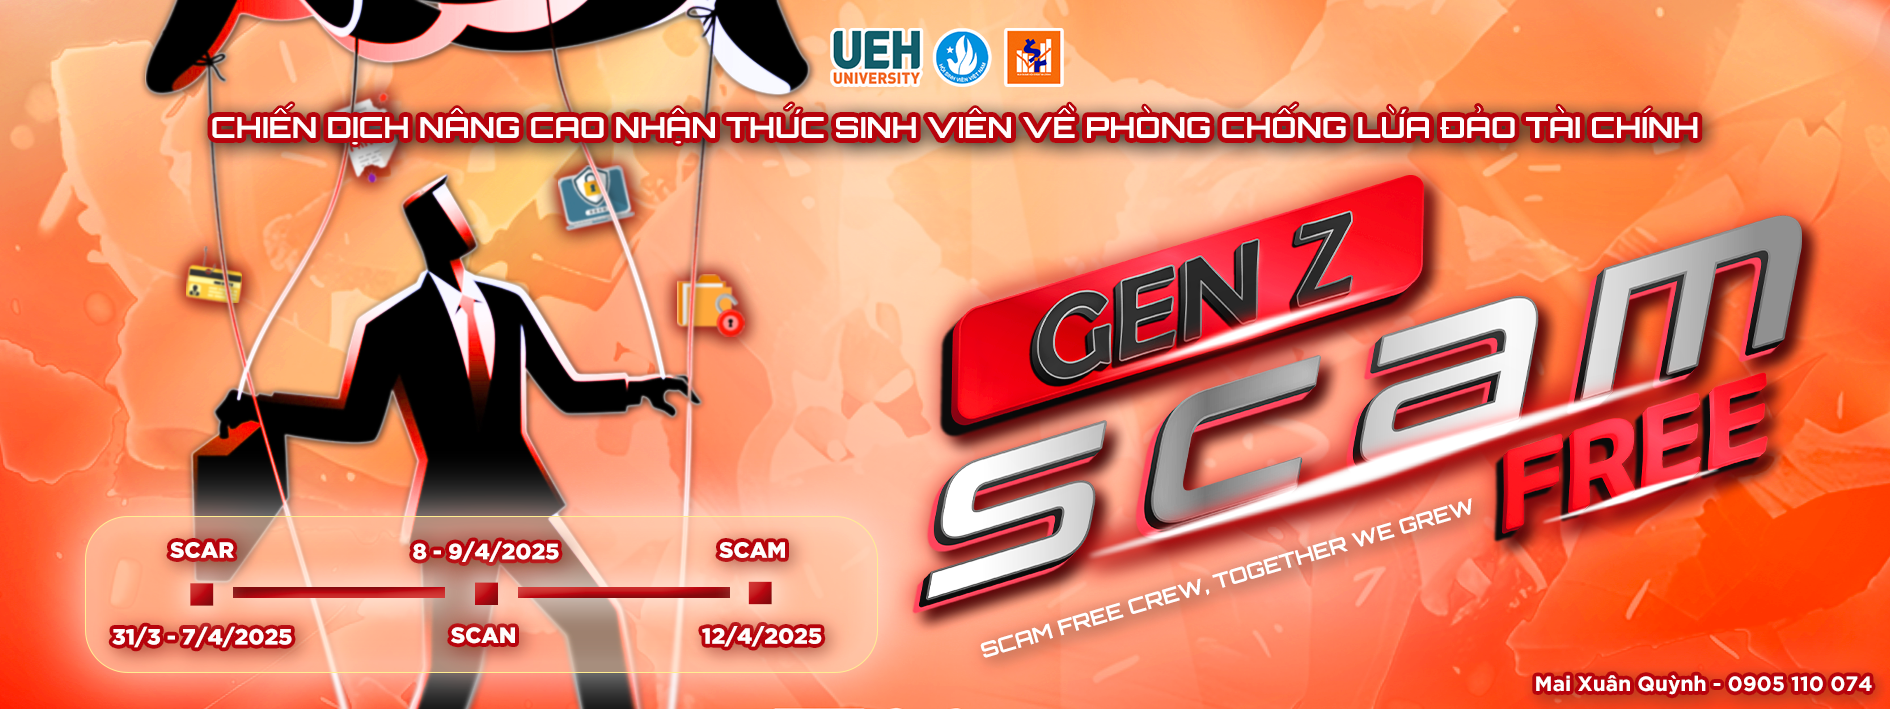
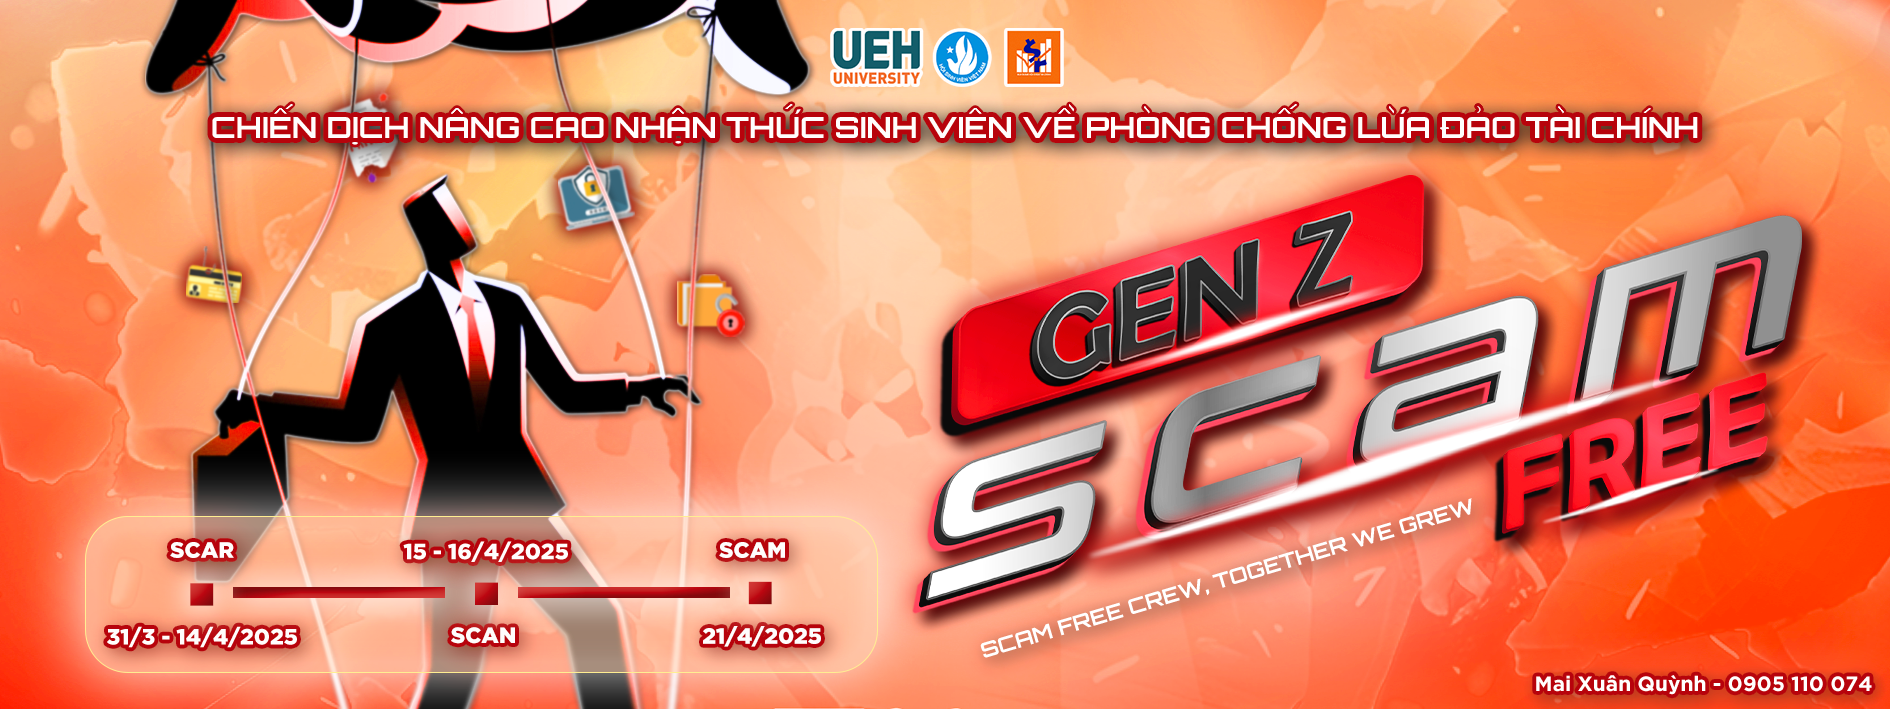
[EDIT] Modify overview element

diff --git a/src/view/Home/Home.scss b/src/view/Home/Home.scss
@@ -79,6 +79,98 @@
             img.title {
                 margin: 0 auto;
                 width: min(800px, 90%);
+                margin-bottom: 15px;
+            }
+
+            .content {
+                width: min(1000px, 90%);
+                margin: 0 auto;
+                display: grid;
+                grid-template-columns: 47% 47%;
+                gap: 6%;
+                place-items: center;
+                padding-top: 20px;
+
+                .element {
+                    width: 400px;
+                    height: 200px;
+                    background-color: white;
+                    border-radius: 35px;
+                    padding: 0 20px;
+                    padding-top: 35px;
+                    padding-bottom: 20px;
+                    
+                    display: flex;
+                    flex-direction: column;
+                    align-items: center;
+                    justify-content: space-between;
+
+                    img {
+                        position: absolute;
+                        height: 40px;
+                        top: -20px;
+                        right: 50%;
+                        transform: translateX(50%);
+                        z-index: 5;
+                    }
+
+                    div {
+                        height: 70%;
+                        display: flex;
+                        align-items: center;
+                        justify-content: center;
+                    }
+
+                    p {
+                        font-size: 20px;
+                        text-align: center;
+                        color: var.$primary-color;
+                        font-weight: 500;
+                    }
+
+                    h3 {
+                        color: var.$primary-color;
+                    text-align: center;
+                    font-family: var.$side-font;
+                    font-size: 20px;
+                    line-height: 1.35;
+                    text-shadow:  
+                        /* Lớp trắng (bên trong, mỏng hơn) */
+                        0px 3px 0px white, 3px 1px 0px white, 1.5px -3px 0px white, -2.5px -2px 0px white,
+                        -2.5px 2px 0px white, 1.5px 2.5px 0px white, 3px -1px 0px white, -0.3px -3px 0px white,
+                        -3px -0.8px 0px white, -1.5px 2.5px 0px white, 2.5px 2px 0px white, 2px -2px 0px white,
+                        -2px -2.5px 0px white, -2.5px 1.5px 0px white, 0.8px 3px 0px white, 3px 0.3px 0px white,
+                        1px -3px 0px white, -2.5px -1.5px 0px white, -2px 2px 0px white, 2px 2.5px 0px white,
+                        3px -1.5px 0px white, -1px -3px 0px white, -3px -0.5px 0px white, -1px 3px 0px white,
+    
+                        /* Lớp đỏ ngoài cùng (dày hơn lớp trắng khoảng 2px) */
+                        0px 5px 0px var.$primary-color, 5px 2px 0px var.$primary-color, 3.5px -5px 0px var.$primary-color, -4.5px -3.5px 0px var.$primary-color,
+                        -4.5px 3.5px 0px var.$primary-color, 3.5px 4.5px 0px var.$primary-color, 5px -2px 0px var.$primary-color, -0.5px -5px 0px var.$primary-color,
+                        -5px -2px 0px var.$primary-color, -3.5px 4.5px 0px var.$primary-color, 4.5px 3.5px 0px var.$primary-color, 3.5px -3.5px 0px var.$primary-color,
+                        -3.5px -4.5px 0px var.$primary-color, -4.5px 2.5px 0px var.$primary-color, 1.5px 5px 0px var.$primary-color, 5px 1px 0px var.$primary-color,
+                        2.5px -5px 0px var.$primary-color, -4.5px -2.5px 0px var.$primary-color, -3.5px 3.5px 0px var.$primary-color, 3.5px 4.5px 0px var.$primary-color,
+                        5px -3.5px 0px var.$primary-color, -1.5px -5px 0px var.$primary-color, -5px -1px 0px var.$primary-color, -1.5px 5px 0px var.$primary-color;
+                    }
+
+                    border: solid rgb(254, 121, 33) 3.5px;
+                    position: relative;
+                    z-index: 1;
+                    // padding: 5px;
+                    &::before {
+                        content: '';
+
+                        position: absolute;
+                        z-index: 2;
+                        top: 2px;
+                        bottom: 2px;
+                        left: 2px;
+                        right: 2px;
+
+                        background-color: transparent;
+                        border-radius: 30px;
+                        border: solid rgb(254, 121, 33) 2px;
+                    }
+                }
             }
         }
 
@@ -210,5 +302,13 @@
                 }
             }
         }
+    }
+}
+
+@media screen and (max-width: 945px) {
+    #home-section .container .overview .content {
+        display: flex;
+        flex-direction: column;
+        gap: 40px;
     }
 }

diff --git a/src/view/Home/Home.jsx b/src/view/Home/Home.jsx
@@ -9,11 +9,14 @@ import checklist from "./img/checklist.png"
 import checklistButton from "./img/checklistButton.png"
 import feedback from "./img/feedback.png"
 import { Link } from 'react-router-dom'
+import scar from "./img/overview/scar.png"
+import scan from "./img/overview/scan.png"
+import scam from "./img/overview/scam.png"
 
 export default function Home() {
-    useEffect(() => {
-        window.scrollTo(0, 0)
-    }, [])
+    // useEffect(() => {
+    //     window.scrollTo(0, 0)
+    // }, [])
 
     return (
         <div className='page-wrapper' id='home-section'>
@@ -38,6 +41,29 @@ export default function Home() {
                 
                 <div className='overview wrapper'>
                     <img className='title' src={overview}/>
+                    <div className='content'>
+                        <div className='element'>
+                            <img src={scar}/>
+                            <div>
+                                <p>Chuỗi truyền thông online giới thiệu các nội dung về Lừa đảo Tài chính, giới thiệu Sổ tay phòng chống lừa đảo tài chính: “SCAR”</p>
+                            </div>
+                            <h3>31/03 - 14/04/2025</h3>
+                        </div>
+                        <div className='element'>
+                            <img src={scan}/>
+                            <div>
+                                <p>Ngày hội phòng chống lừa đảo tài chính</p>
+                            </div>
+                            <h3>15 - 16/04/2025</h3>
+                        </div>
+                        <div className='element' style={{gridColumn: "1/3"}}>
+                            <img src={scam}/>
+                            <div>
+                                <p>Talkshow Nhận diện lừa đảo tài chính <br/> B1.302, Đại học Kinh tế TP. Hồ Chí Minh</p>
+                            </div>
+                            <h3>21/04/2025</h3>
+                        </div>
+                    </div>
                 </div>
 
                 <div className='game wrapper'>

diff --git a/src/view/Handbook/Handbook.scss b/src/view/Handbook/Handbook.scss
@@ -283,77 +283,6 @@
         }
     }    
 
-    .main-content-a {
-        padding-top: 25px;
-        .title {
-            width: min(85%, 900px);
-            margin: 0 auto;
-        }
-
-        .content {
-            display: flex;
-            align-items: center;
-            flex-direction: column;
-            gap: 20px;
-        }
-
-        .element {
-            width: min(90%, 1100px);
-            background-color: white;
-            padding: 20px 35px;
-            border-radius: 20px;
-            color: var.$primary-color;
-
-            .contact {
-                display: grid;
-                grid-template-columns: repeat(auto-fit, minmax(450px, 1fr)); /* Cột linh hoạt */
-                gap: 25px;
-                // padding: 20px;
-                margin: 0 auto; 
-
-                li {
-                    padding-bottom: 2px;
-                }
-            }
-
-            h3 {
-                font-family: var.$side-font;
-                padding-bottom: 20px;
-                font-size: 22px;
-            }
-
-            p, li {
-                font-size: 20px;
-                font-weight: 500;
-                line-height: 1.2;
-                padding-bottom: 15px;
-                text-align: justify;
-            }
-
-            ul.sub-element {
-                li {
-                    padding-left: 30px;
-                }
-            }
-
-            span {
-                font-weight: 900;
-                font-style: italic;
-            }
-
-            a {
-                color: var.$primary-color;
-                font-style: italic;
-                cursor: pointer;
-        
-                &:hover {
-                    // color: black;
-                    color: var.$highlight-color;
-                }
-            }
-        }
-    }
-
     .online-example {
         padding-top: 50px;
         
